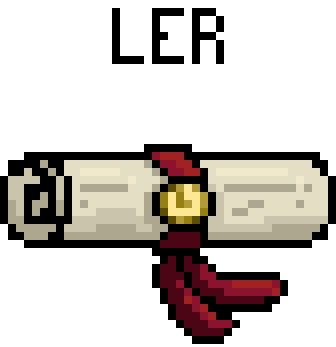
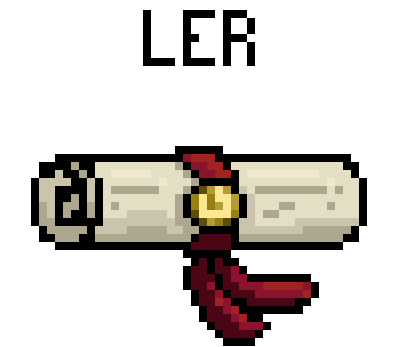
Ajustes do menu

Changed region(s): [[0.0, 0.4035, 1.0, 1.0], [0.3274, 0.0, 0.6845, 0.2017]]

diff --git a/index.html b/index.html
@@ -10,10 +10,10 @@
     <main>
         <section id="top">
             <a href="enviar.html">
-                <img src="img/enviar.png" alt="">
+                <img src="img/enviar2.png" alt="">
             </a>
             <a href="receber.html">
-                <img src="img/receber.png" alt="">
+                <img src="img/ler.png" alt="">
             </a>
         </section>
         <section id="down">

diff --git a/css/style.css b/css/style.css
@@ -28,7 +28,7 @@ main section#top > a {
 }
 main section#top a > img{
     width: 200px;
-    height: 138px;
+    /*height: 138px;*/
 }
 main section#down {
     grid-area: down;
